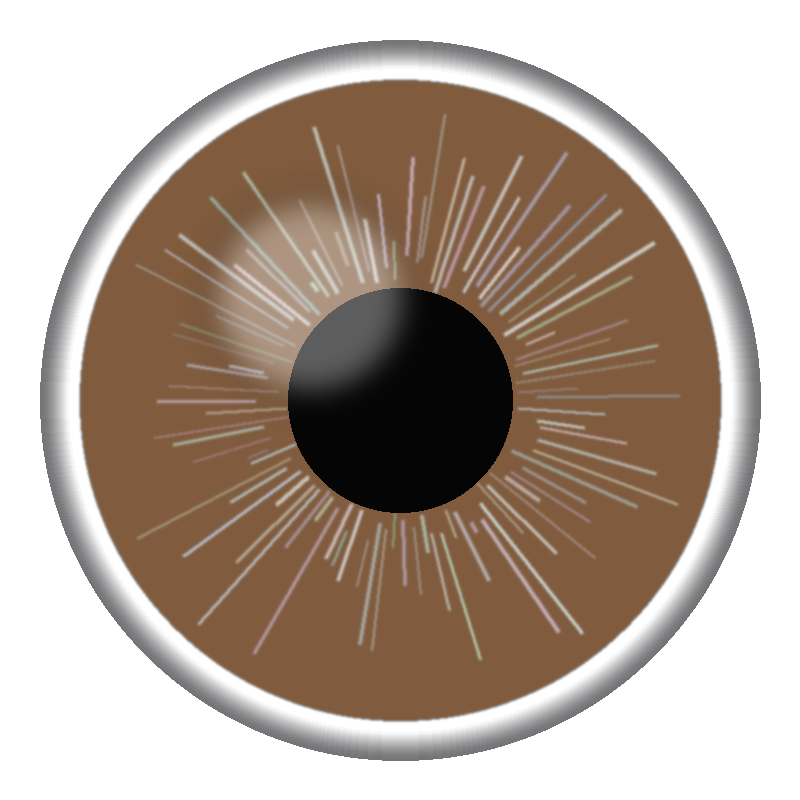
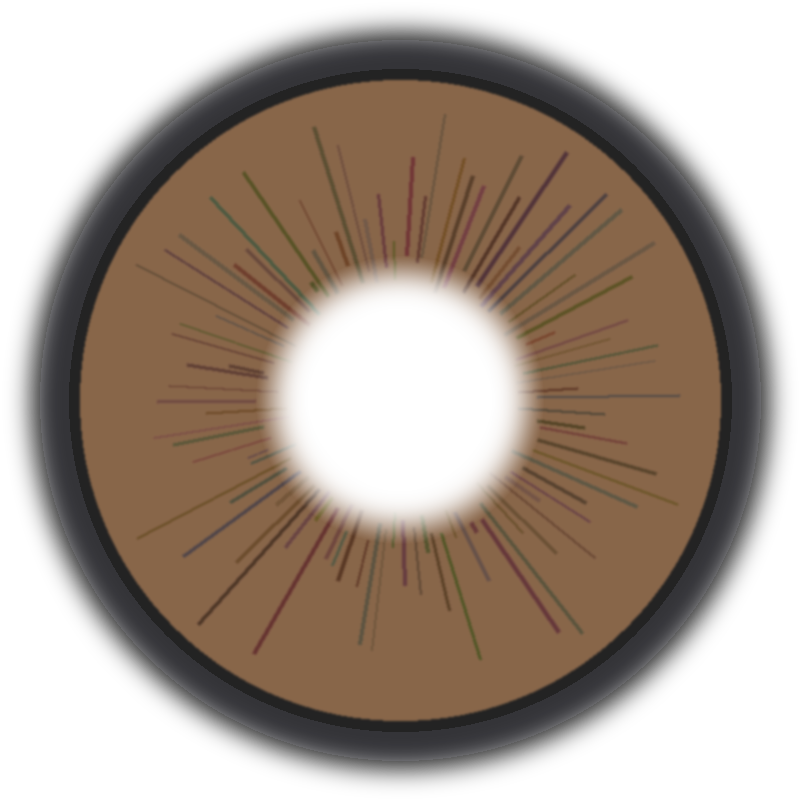
Fix lens compositing: transparent pupil, draw video to canvas, multiply blend

diff --git a/app.js b/app.js
@@ -6,6 +6,8 @@ import {
 const video = document.getElementById("video");
 const canvas = document.getElementById("overlay");
 const ctx = canvas.getContext("2d");
+// video element is hidden; we draw it onto canvas every frame
+video.style.display = "none";
 const statusEl = document.getElementById("status");
 const productListEl = document.getElementById("product-list");
 const captureBtn = document.getElementById("capture-btn");
@@ -118,7 +120,13 @@ function renderLoop() {
 
   const w = canvas.width;
   const h = canvas.height;
-  ctx.clearRect(0, 0, w, h);
+
+  // Draw mirrored video frame as background
+  ctx.save();
+  ctx.translate(w, 0);
+  ctx.scale(-1, 1);
+  ctx.drawImage(video, 0, 0, w, h);
+  ctx.restore();
 
   const result = faceLandmarker.detectForVideo(video, performance.now());
 
@@ -135,25 +143,24 @@ function renderLoop() {
 
   const landmarks = result.faceLandmarks[0];
 
+  // Mirror x-coordinate to match the flipped video
   const left = irisCenterAndRadius(landmarks, LEFT_IRIS, w, h);
   const right = irisCenterAndRadius(landmarks, RIGHT_IRIS, w, h);
+  left.cx = w - left.cx;
+  right.cx = w - right.cx;
 
+  // Blend lens with 'multiply' so the real iris/pupil underneath shows through naturally
+  ctx.globalCompositeOperation = "multiply";
+  ctx.globalAlpha = 0.88;
   drawLensOnEye(lensImg, left.cx, left.cy, left.radius);
   drawLensOnEye(lensImg, right.cx, right.cy, right.radius);
+  ctx.globalCompositeOperation = "source-over";
+  ctx.globalAlpha = 1.0;
 }
 
 function capture() {
-  const out = document.createElement("canvas");
-  out.width = canvas.width;
-  out.height = canvas.height;
-  const octx = out.getContext("2d");
-  // mirror to match what the user sees on screen
-  octx.translate(out.width, 0);
-  octx.scale(-1, 1);
-  octx.drawImage(video, 0, 0, out.width, out.height);
-  octx.drawImage(canvas, 0, 0, out.width, out.height);
-
-  out.toBlob((blob) => {
+  // canvas already contains video + lens composite
+  canvas.toBlob((blob) => {
     const url = URL.createObjectURL(blob);
     const a = document.createElement("a");
     a.href = url;

diff --git a/style.css b/style.css
@@ -128,13 +128,14 @@ html, body {
   height: 100%;
 }
 
-#video, #overlay {
+#video { display: none; }
+
+#overlay {
   position: absolute;
   top: 0; left: 0;
   width: 100%;
   height: 100%;
   object-fit: cover;
-  transform: scaleX(-1); /* mirror like a selfie cam */
 }
 
 #status {